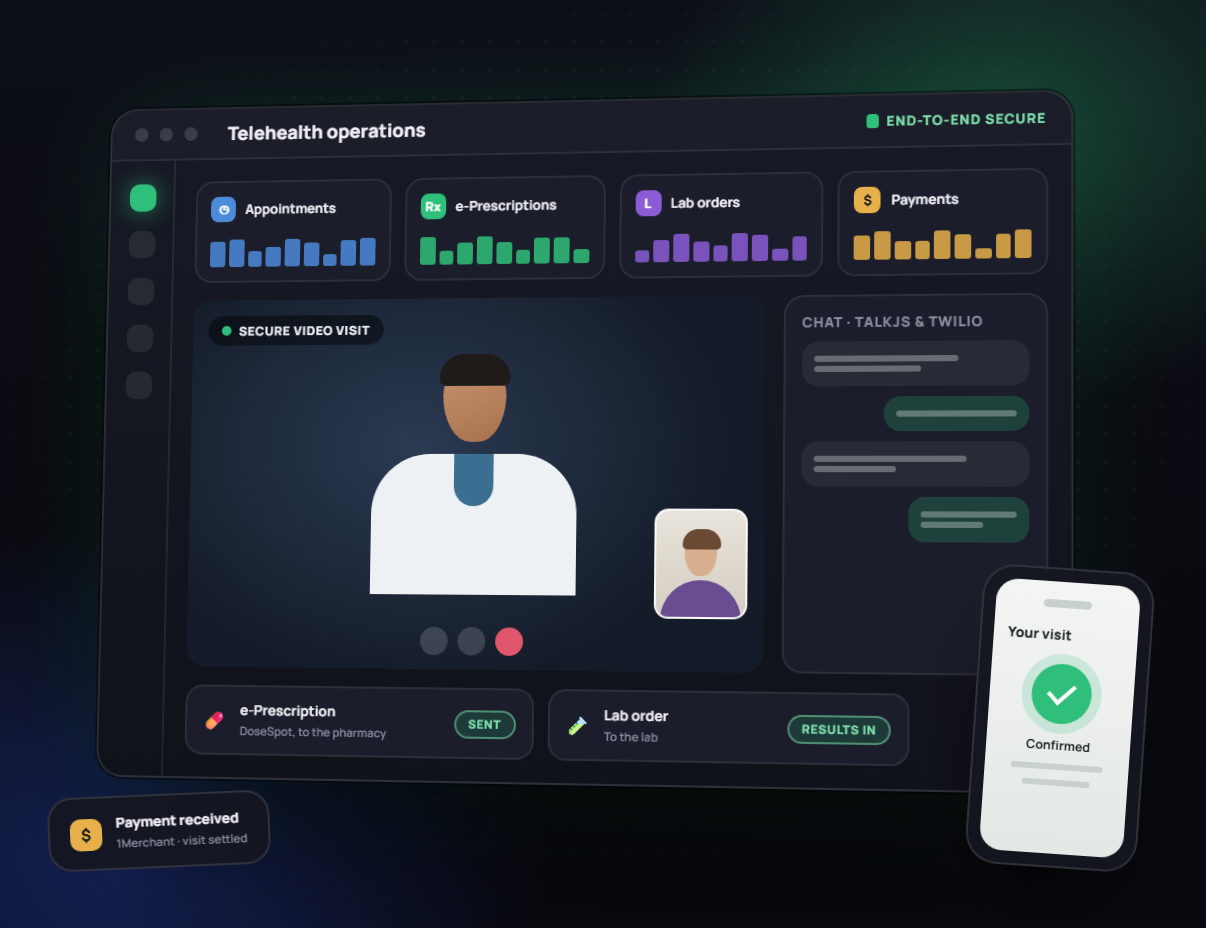
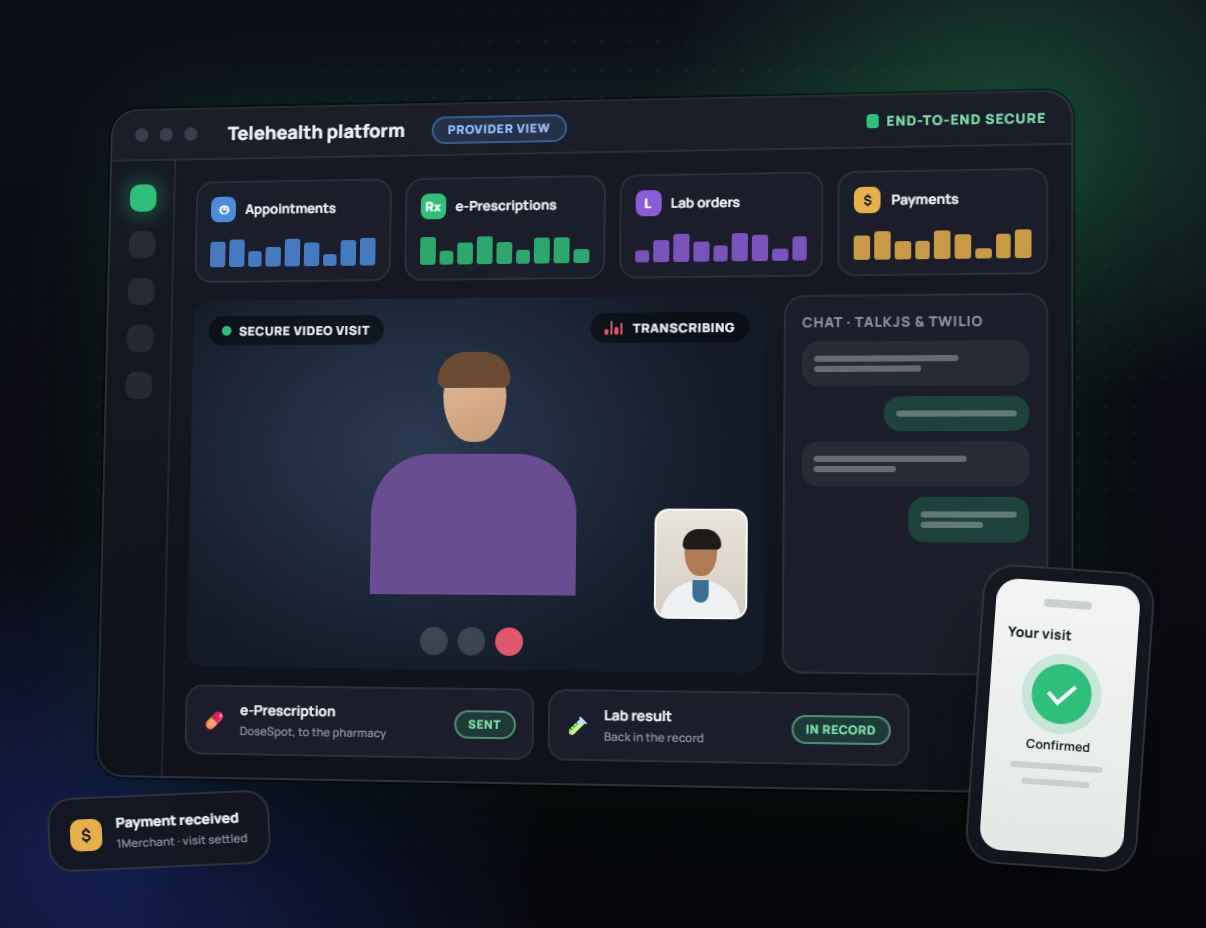
feat(projects): business acquisition and telehealth told as built
- Multi-Agent AI Platform now tells the business acquisition story: a
  persona orchestrator directing discovery, profile and due diligence
  agents over A2A, with MCP tools.
- Telehealth follows the delivered platform: multi-tenant, five roles
  (patient, provider, pharmacy, lab, admin), secure consultations with
  background transcription, e-prescriptions and lab results in one
  clinical record; its features and illustration (the provider's view)
  follow.

diff --git a/scripts/art/telehealth.html b/scripts/art/telehealth.html
@@ -1,9 +1,9 @@
 <!doctype html>
 <!--
   The Enterprise Telehealth Platform's project illustration, made in code (rendered by scripts/render-project-art.mjs
-  at 2x to src/assets/projects/telehealth.png). A stylised operations console, not a screenshot: patients, providers,
-  pharmacies and labs on one platform, a secure visit with its chat, the prescription and the lab order it sends, and
-  the payment. Sized at the cards' 603 x 464 display box.
+  at 2x to src/assets/projects/telehealth.png). A stylised console in the provider's view, not a screenshot: a secure
+  consultation being transcribed beside its chat, the prescription sent to the pharmacy and the lab result returned to
+  the record, the payment, and the patient's confirmed visit. Sized at the cards' 603 x 464 display box.
 -->
 <html lang="en">
   <head>
@@ -109,6 +109,46 @@
         margin-left: 10px;
         font-weight: 800;
         font-size: 9.5px;
+      }
+
+      .role {
+        margin-left: 8px;
+        padding: 2px 7px;
+        border-radius: 20px;
+        background: rgb(76 139 218 / 18%);
+        border: 1px solid rgb(76 139 218 / 50%);
+        color: #9cc1ff;
+        font-size: 6px;
+        font-weight: 800;
+        letter-spacing: 0.08em;
+      }
+
+      .rec {
+        position: absolute;
+        right: 8px;
+        top: 8px;
+        display: flex;
+        align-items: center;
+        gap: 5px;
+        padding: 3px 7px;
+        border-radius: 20px;
+        background: rgb(0 0 0 / 45%);
+        font-size: 6.2px;
+        font-weight: 800;
+        letter-spacing: 0.06em;
+      }
+
+      .rec i {
+        display: flex;
+        align-items: flex-end;
+        gap: 1px;
+        height: 7px;
+      }
+
+      .rec i b {
+        width: 1.5px;
+        border-radius: 1px;
+        background: #e0566c;
       }
 
       .secure {
@@ -490,7 +530,8 @@
       <div class="window">
         <div class="bar">
           <span class="dot"></span><span class="dot"></span><span class="dot"></span>
-          <span class="title">Telehealth operations</span>
+          <span class="title">Telehealth platform</span>
+          <span class="role">PROVIDER VIEW</span>
           <span class="secure">END-TO-END SECURE</span>
         </div>
         <div class="body">
@@ -516,21 +557,11 @@
             </div>
             <div class="visit">
               <div class="video">
+                <!-- the provider's view: the patient on screen, the provider in the corner -->
                 <div class="person" style="top: 20px">
                   <span
                     class="torso"
-                    style="top: 58px; width: 104px; height: 70px; margin-left: -52px; background: #eef1f4"
-                  ></span>
-                  <span
-                    class="torso"
-                    style="
-                      top: 58px;
-                      width: 20px;
-                      height: 26px;
-                      margin-left: -10px;
-                      background: #3b6f91;
-                      border-radius: 0 0 10px 10px;
-                    "
+                    style="top: 58px; width: 104px; height: 70px; margin-left: -52px; background: #6a4c93"
                   ></span>
                   <span
                     class="head"
@@ -539,28 +570,45 @@
                       width: 32px;
                       height: 40px;
                       margin-left: -16px;
-                      background: linear-gradient(160deg, #c9926e, #a9724f);
+                      background: linear-gradient(160deg, #e2bc9b, #c99a76);
                     "
                   ></span>
                   <span
                     class="hair"
-                    style="top: 8px; width: 36px; height: 16px; margin-left: -18px; background: #1f1b19"
+                    style="top: 7px; width: 37px; height: 18px; margin-left: -18.5px; background: #6b4a33"
                   ></span>
                 </div>
                 <span class="tag">SECURE VIDEO VISIT</span>
+                <span class="rec"
+                  ><i
+                    ><b style="height: 40%"></b><b style="height: 100%"></b><b style="height: 60%"></b
+                    ><b style="height: 85%"></b></i
+                  >TRANSCRIBING</span
+                >
                 <div class="pip">
                   <div class="person" style="top: 6px">
                     <span
                       class="torso"
-                      style="top: 28px; width: 40px; height: 30px; margin-left: -20px; background: #6a4c93"
+                      style="top: 28px; width: 40px; height: 30px; margin-left: -20px; background: #eef1f4"
+                    ></span>
+                    <span
+                      class="torso"
+                      style="
+                        top: 28px;
+                        width: 8px;
+                        height: 11px;
+                        margin-left: -4px;
+                        background: #3b6f91;
+                        border-radius: 0 0 4px 4px;
+                      "
                     ></span>
                     <span
                       class="head"
-                      style="top: 6px; width: 16px; height: 20px; margin-left: -8px; background: #d9b08f"
+                      style="top: 6px; width: 16px; height: 20px; margin-left: -8px; background: #b07a55"
                     ></span>
                     <span
                       class="hair"
-                      style="top: 3px; width: 19px; height: 10px; margin-left: -9.5px; background: #6b4a33"
+                      style="top: 3px; width: 19px; height: 10px; margin-left: -9.5px; background: #1f1b19"
                     ></span>
                   </div>
                 </div>
@@ -582,8 +630,8 @@
               </div>
               <div class="order">
                 <i style="font-style: normal; font-size: 9px">🧪</i>
-                <div>Lab order<small>To the lab</small></div>
-                <span class="ok">RESULTS IN</span>
+                <div>Lab result<small>Back in the record</small></div>
+                <span class="ok">IN RECORD</span>
               </div>
             </div>
           </div>

diff --git a/src/content/projects.ts b/src/content/projects.ts
@@ -88,12 +88,16 @@ export const projects: Project[] = [
   },
   {
     slug: 'multi-agent-ai-platform',
-    eyebrow: 'AGENTIC AI',
+    eyebrow: 'BUSINESS ACQUISITION',
     tone: 'standard',
     title: 'Multi-Agent AI Platform',
     summary:
-      'Autonomous, tool-using agents built with Google ADK, MCP and the Agent2Agent protocol, integrating securely with live enterprise infrastructure.',
-    bullets: ['Autonomous, tool-using agents', 'Secure MCP integrations', 'Agent-to-agent collaboration (A2A)'],
+      'A multi-agent platform for buying a business, built with Google ADK: a persona orchestrator directs agents that discover the businesses that fit the buyer, build each one’s profile and run due diligence on the deal, working together over A2A and reaching live data through MCP.',
+    bullets: [
+      'Business discovery driven by the buyer’s persona',
+      'Profiles and due diligence by specialist agents',
+      'Secure MCP tools, agents working together over A2A',
+    ],
     features: [
       'Persona orchestration',
       'Business discovery',
@@ -117,19 +121,29 @@ export const projects: Project[] = [
     tone: 'bright',
     title: 'Enterprise Telehealth Platform',
     summary:
-      'A multi-stakeholder platform for patients, providers, pharmacies and labs, with e-prescriptions, payments and real-time secure communication.',
-    bullets: ['e-Prescriptions via DoseSpot', 'Payments with 1Merchant', 'Real-time chat with TalkJS & Twilio'],
+      'A multi-tenant telehealth platform connecting patients, providers, pharmacies, labs and administrators, so every virtual consultation leads to a prescription, a lab order and a documented care plan within one system.',
+    bullets: [
+      'Secure virtual consultations, transcribed',
+      'e-Prescriptions and lab results in one record',
+      'Multi-tenant, with a portal for every role',
+    ],
     features: [
-      'Patients, providers, pharmacies & labs',
-      'Appointments',
+      'Patient, provider, pharmacy, lab & admin portals',
+      'Multi-tenant client organisations',
+      'Provider search & scheduling',
+      'Secure audio & video consultations',
+      'Consultation transcription',
+      'Shared clinical record',
       'e-Prescriptions (DoseSpot)',
-      'Lab orders',
+      'Lab orders & results',
       'Payments (1Merchant)',
       'Real-time chat (TalkJS & Twilio)',
+      'Role-based access control',
+      'Usage reporting',
     ],
     image: telehealthShot,
     imageAlt:
-      'Illustration of a telehealth operations console on a dark stage: appointment, e-prescription, lab order and payment tiles, a secure video visit beside its secure chat, a prescription sent to the pharmacy and a lab order, with a payment received and the patient’s confirmed visit on a phone.',
+      'Illustration of a telehealth console in the provider’s view on a dark stage: appointment, e-prescription, lab order and payment tiles, a secure video consultation being transcribed beside its chat, a prescription sent to the pharmacy and a lab result returned to the record, with a payment received and the patient’s confirmed visit on a phone.',
   },
   {
     slug: 'responsible-ai-governance',
